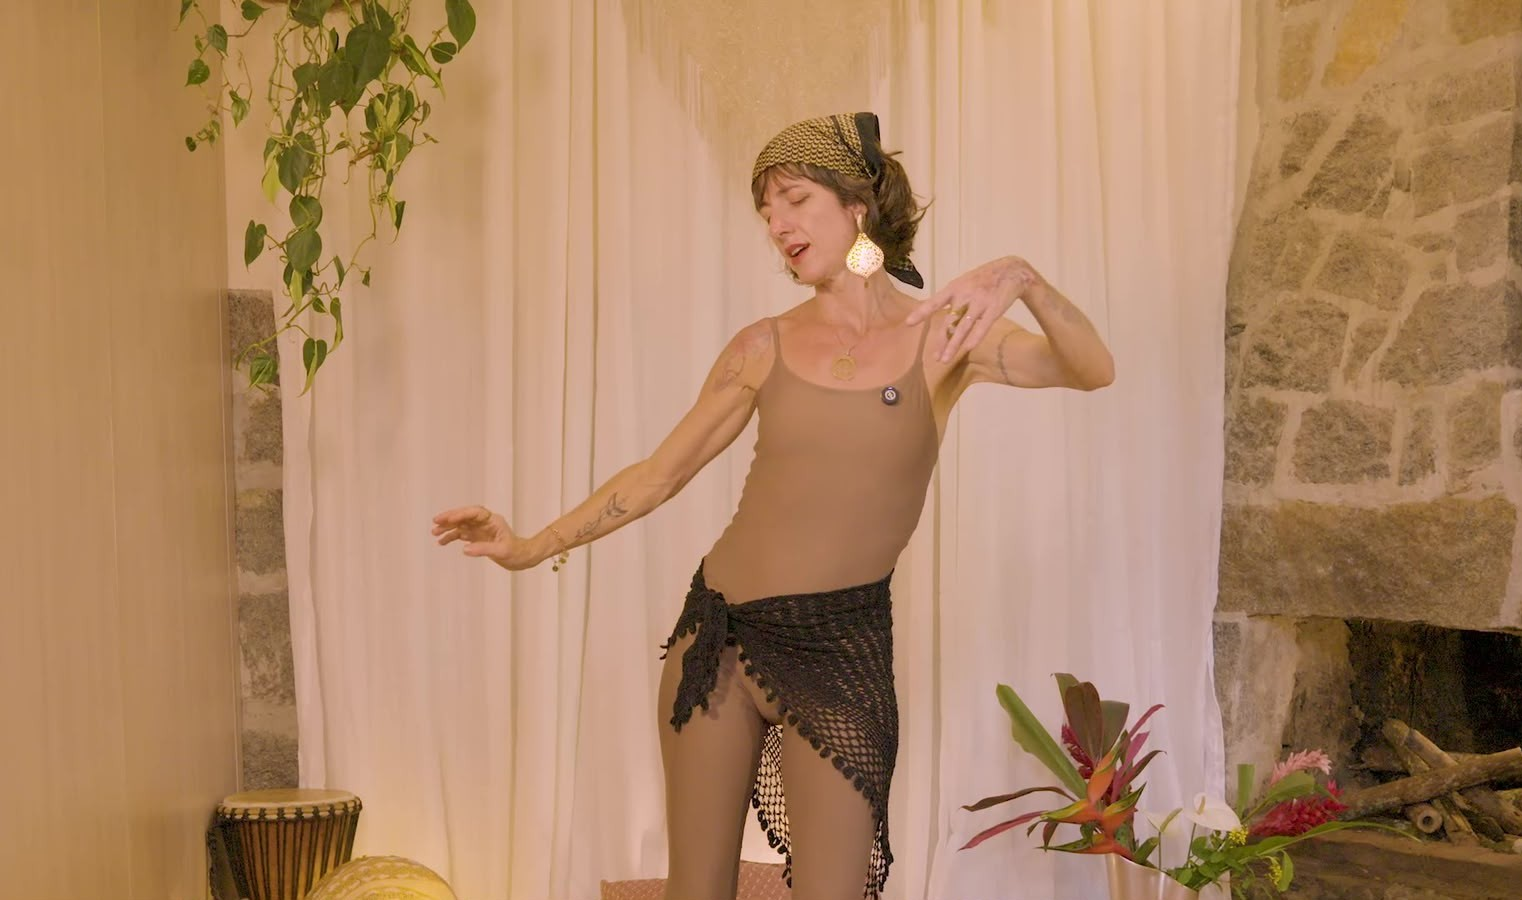
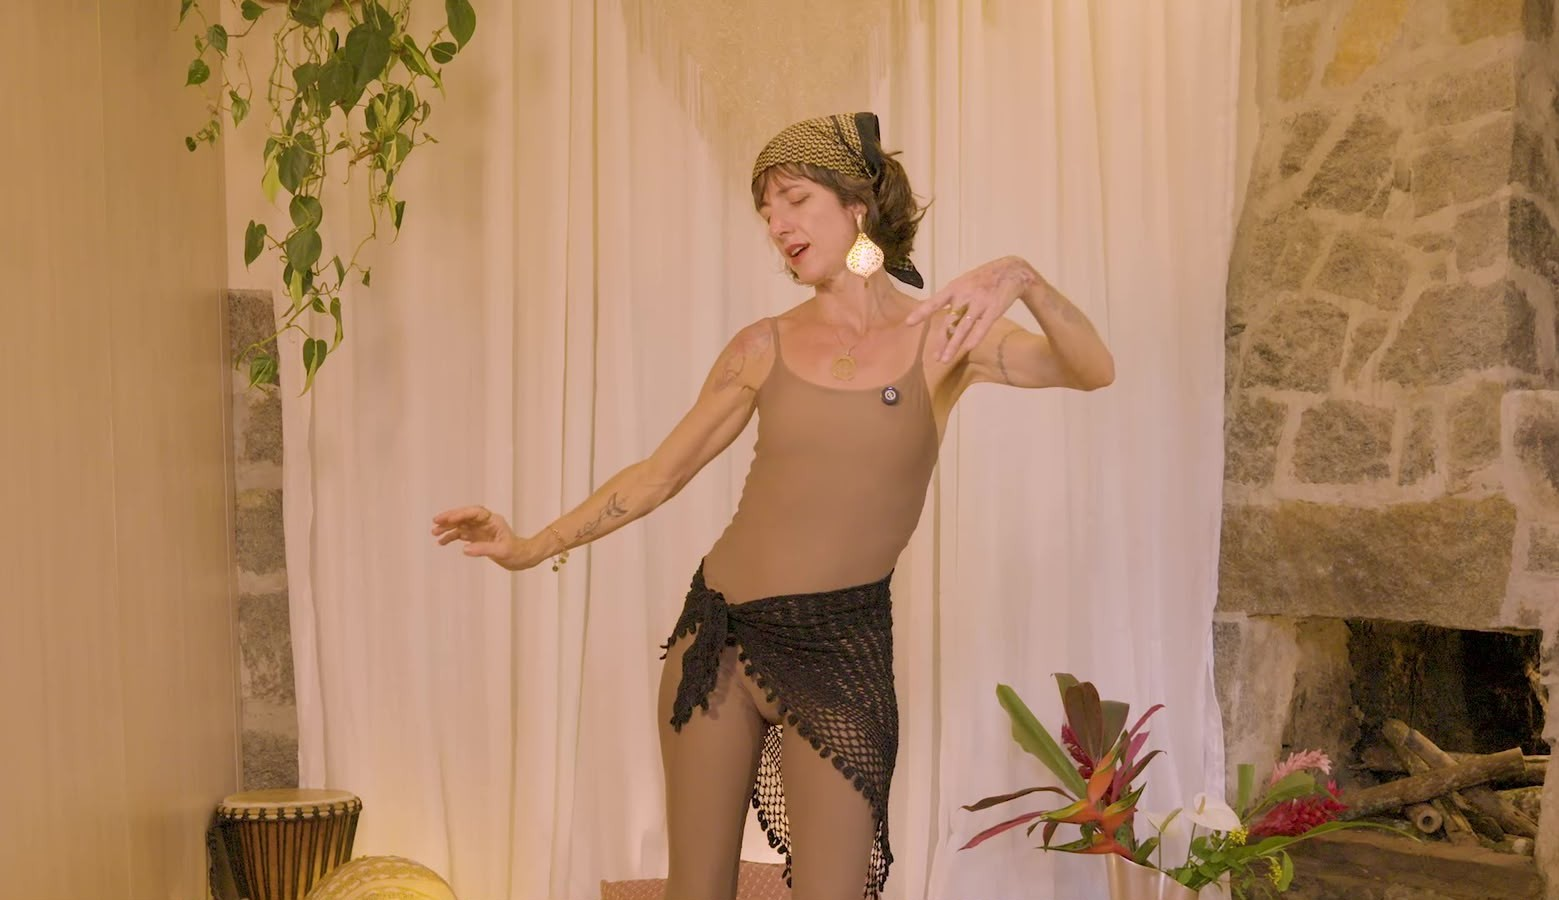
Add files via upload

Changed region(s): [[0.0926, 0.0, 1.0, 1.0], [0.6794, 0.0, 0.7411, 0.1244]]

diff --git a/index.html b/index.html
@@ -133,7 +133,7 @@
           Formei-me em Dança pela Universidade Federal da Bahia e estudei balé
           e dança moderna em Nova York. Mas foi fora da universidade que minha
           pesquisa mais profunda começou: na meditação, na Sagrada Medicina
-          Ayahuasca e no Contato Improvisação — e, mais tarde, na Índia, onde
+          Ayahuasca, no Contato Improvisação e, mais tarde, na Índia, onde
           conheci o Ayurveda e a Dança Oriental.
         </p>
         <p class="reveal">
@@ -184,7 +184,7 @@
           <div class="timeline__dot" aria-hidden="true"></div>
           <div class="timeline__body">
             <h3>Os primeiros passos</h3>
-            <p>A expressão corporal a apresenta à dança. Vieram o balé clássico, a dança moderna e contemporânea, as danças brasileiras e africanas.</p>
+            <p>A expressão corporal me apresenta à dança. Vieram o balé clássico, a dança moderna e contemporânea, as danças brasileiras e africanas.</p>
           </div>
         </li>
         <li class="timeline__item reveal">
@@ -208,7 +208,7 @@
           <div class="timeline__dot" aria-hidden="true"></div>
           <div class="timeline__body">
             <h3>Ayurveda e Dança Oriental</h3>
-            <p>Estudos aprofundados em meditação, massagem e Ayurveda. O encontro com a Dança do Ventre, o Tribal Fusion e o ATS revela uma sabedoria: o movimento nasce do ventre, origem da vida.</p>
+            <p>Estudos aprofundados em meditação, massagem e Ayurveda. Posteriormente vem o encontro com a Dança do Ventre, o Tribal Fusion e o ATS revela uma sabedoria: o movimento nasce do ventre, origem da vida.</p>
           </div>
         </li>
         <li class="timeline__item reveal">
@@ -312,7 +312,7 @@
           <span class="steps__num">II</span>
           <div class="steps__body">
             <h3>Respiração</h3>
-            <p>A respiração se amplia, e o corpo volta a sentir espaço para existir.</p>
+            <p>A respiração se amplia e o corpo volta a sentir espaço para existir.</p>
           </div>
         </li>
         <li class="steps__item reveal">
